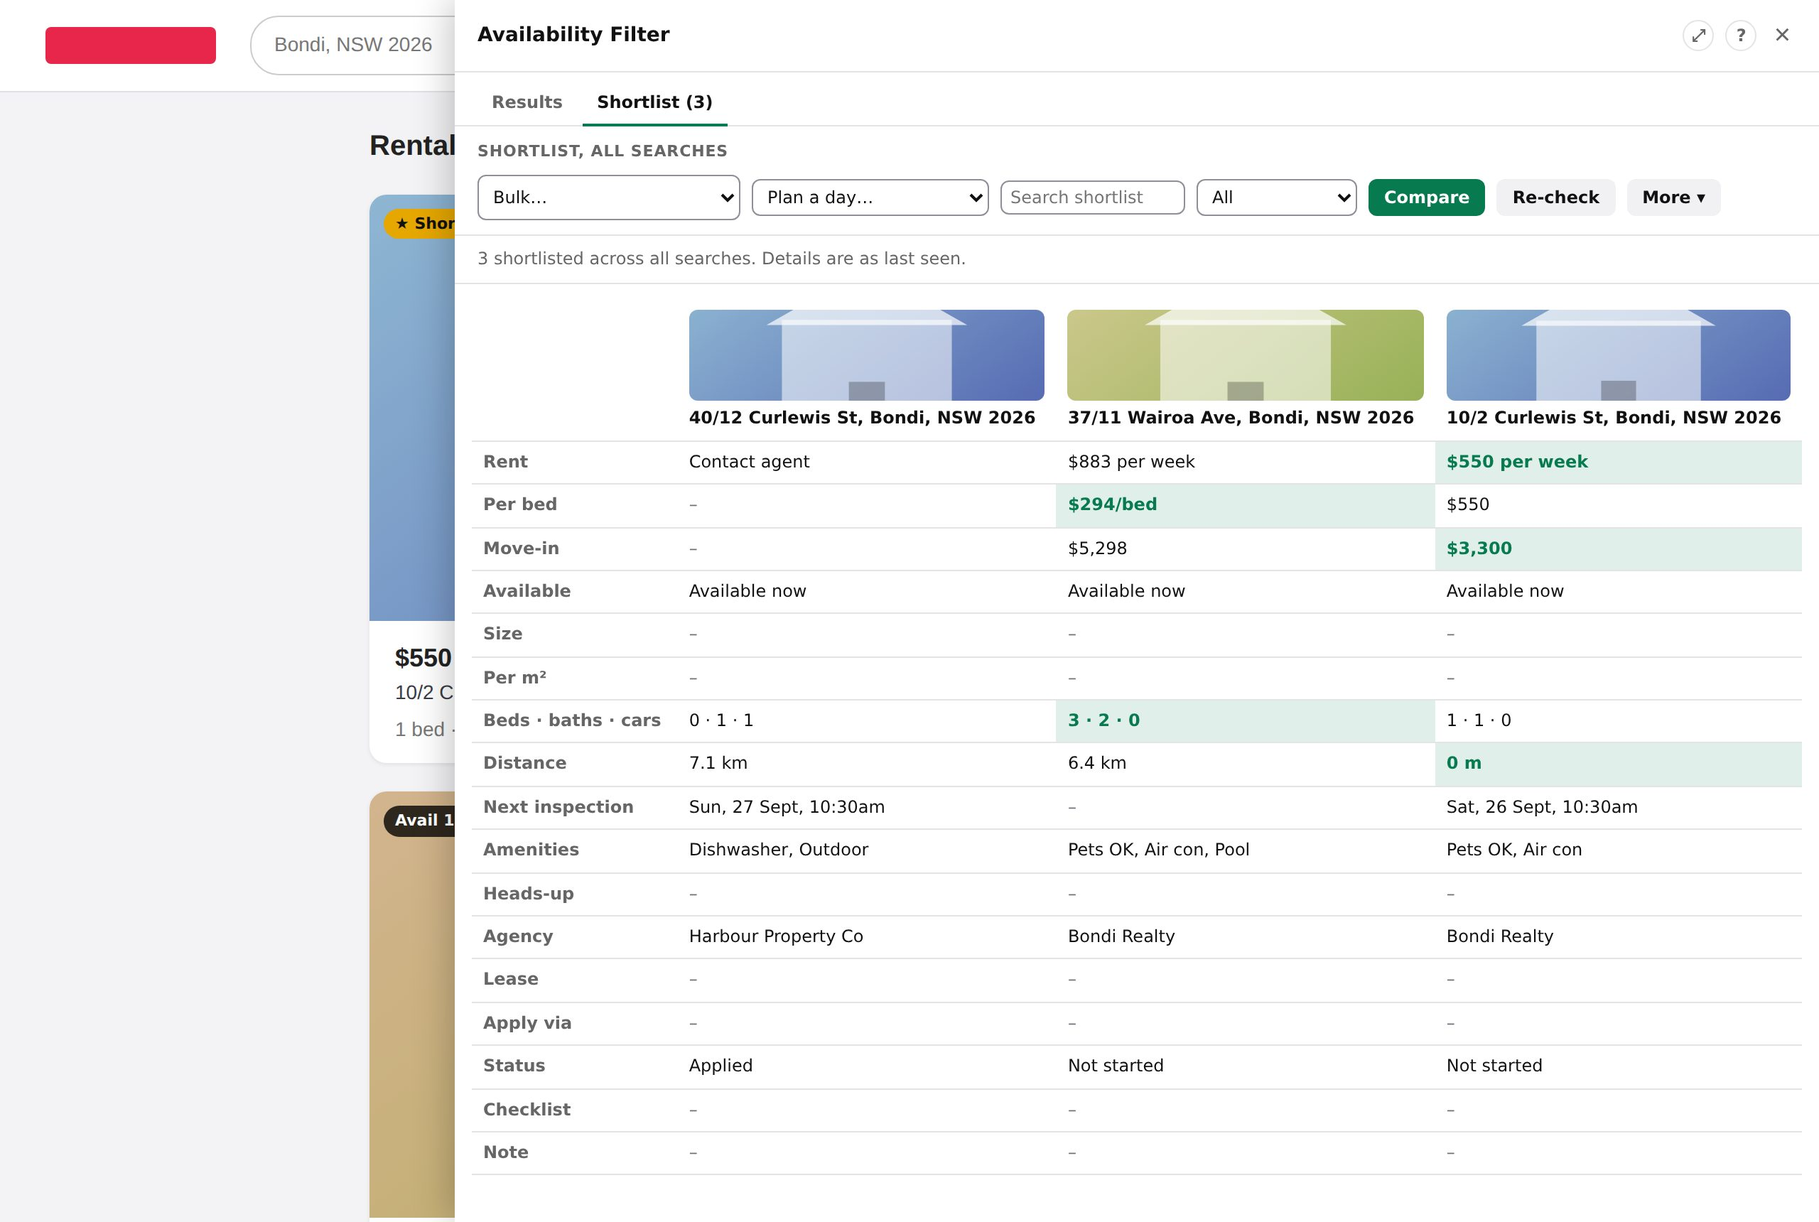
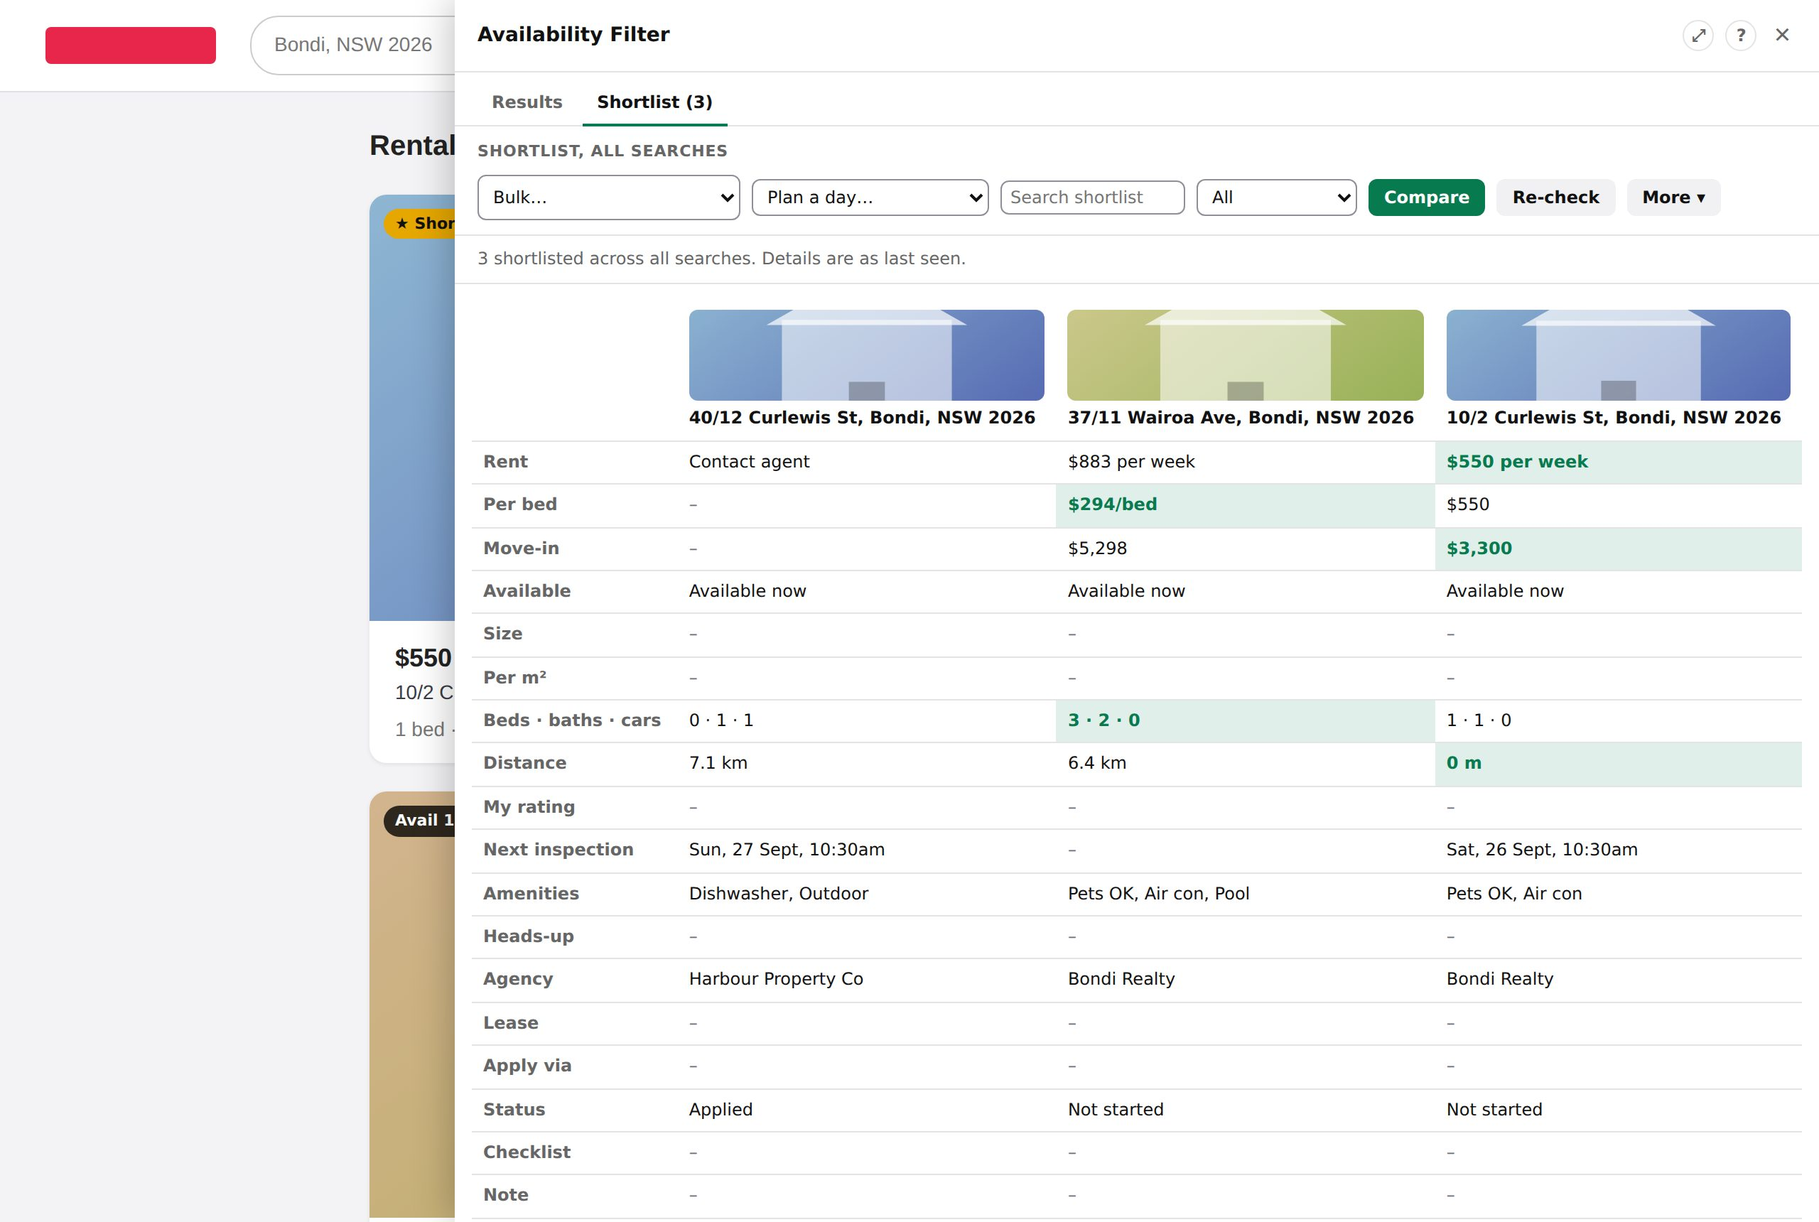
Bump 2.28.0; changelog, what's new, docs and screenshots

diff --git a/rea-availability-filter.user.js b/rea-availability-filter.user.js
@@ -1,7 +1,7 @@
 // ==UserScript==
 // @name         REA Availability Filter
 // @namespace    https://github.com/cpwillis-pocs/rea-enhancement
-// @version      2.27.0
+// @version      2.28.0
 // @description  Availability-date filtering and sorting, extra filters, cross-page merging, on-card availability badges and CSV/TSV export for realestate.com.au rental searches.
 // @author       cpwillis
 // @homepageURL  https://github.com/cpwillis-pocs/rea-enhancement
@@ -5138,10 +5138,10 @@ ${r.note ? `<div class="n">${esc(r.note)}</div>` : ''}${checklist.length ? `<div
   const DRAWER_MIN = 360, DRAWER_MAX = 900, DRAWER_TWO_COL = 760;
   // Installs auto-update silently, so the drawer says once what changed (lint keeps this in step
   // with @version and the changelog). A first install gets WELCOME instead.
-  const WHATS_NEW = { version: '2.27.0', items: [
-    'Map view (v): the listings shown on a simple map, coloured by rent vs the median.',
-    'Hover a tag to see the sentence it was read from; remembered searches show a rent trend.',
-    'Backups now include your settings, and the listing-page bar has your inspection checklist.',
+  const WHATS_NEW = { version: '2.28.0', items: [
+    'Rate shortlisted places 1–5 after an inspection (Shift+1–5), and see your next stop on a listing page.',
+    'Restore now shows what it will change first, and can be undone.',
+    'The map keeps far-away places at its edge; about 1000 listings per search are now remembered.',
   ] };
   const WELCOME = [
     'Set a date (or leave it blank) and press Search all pages to read every page of this search.',

diff --git a/docs/ROADMAP.md b/docs/ROADMAP.md
@@ -2,7 +2,7 @@
 
 Where the project stands, the decisions already taken, what is known not to work perfectly, and ideas that were considered but not built. The feature list is in the [README](../README.md), every change is in the [CHANGELOG](../CHANGELOG.md), and the internals are in [ARCHITECTURE.md](ARCHITECTURE.md).
 
-## Where it stands (v2.27.0)
+## Where it stands (v2.28.0)
 
 The project went from a single-purpose availability-date filter (1.0.0) to a full rental-search companion across 30+ releases. Each area below is built, unit- or e2e-tested, and described in the README.
 
@@ -10,12 +10,12 @@ The project went from a single-purpose availability-date filter (1.0.0) to a ful
 |---|---|
 | **Finding** | Crawl every page of a search (one page at a time, capped, resumable after a failure). Filters: dates, rent, move-in cost, beds/baths/cars, floor size, several property types, 19 amenities, heads-up clauses, lease length, taken listings, inspection day or "inspections I can make", distance to up to 3 places, building. Keywords with OR and accent folding. 12 sorts (including price per m²), each reversible. |
 | **Judging** | Map view, rent trend per remembered search, tag tooltips quoting the text each tag was read from, amenity detail (pets welcome vs on application, heating type, water efficient), rent vs the median in the listing's own suburb, best-match score with adjustable weights, move-in cost and bond flag, lease overlap or gap against your current lease, share of income, price and date change history, relists, twin listings, market view. |
-| **Deciding** | Shortlist across searches with notes, checklist, application status and follow-ups. Hide with reasons (a price-hidden listing comes back if it gets cheaper). Reviewed marks, compare table, photo peek, enquiry text. |
-| **Inspecting** | Inspection times in the listing's time zone, a day planner with clash detection and a suggested route, calendar export with reminders, after-inspection prompts, cancelled-inspection notices. |
+| **Deciding** | Shortlist across searches with notes, checklist, your 1–5 rating, application status and follow-ups. Hide with reasons (a price-hidden listing comes back if it gets cheaper). Reviewed marks, compare table, photo peek, enquiry text. |
+| **Inspecting** | The next stop and your checklist on the listing page, inspection times in the listing's time zone, a day planner with clash detection and a suggested route, calendar export with reminders, after-inspection prompts, cancelled-inspection notices. |
 | **Returning** | Remembered and pinned searches with new / gone listings and a rent trend, Check all, a daily reminder, presets bound to searches, share links, backup and restore. |
 | **Using it** | Side drawer that scrolls as one page (resizable, compact mode, reopens on the listing you were on after a reload, in Results and Shortlist) or expanded near full screen. Full keyboard control, dark mode (system, or set in Settings), phone layout, screen-reader labels (card buttons named per listing), High Contrast styles, a first-run welcome, badges and quick actions on REA's own cards, a bar on listing pages. |
 | **Keeping it working** | Several fallback field paths, discovery by shape, results found by shape if REA renames them, cards found without `<article>` (and a banner if none can be recognised), drift warnings, `reaFilter.selfcheck()` / `probe()` / `shape()` (paste-safe listing structure), storage-full warning, a size budget for remembered searches, a 10-minute pause after a bot check, a double-run guard, a one-time what's-new note after updates. |
-| **Project** | 188 unit tests (including shapes from `reaFilter.shape()`), 64 e2e scenario blocks plus a smoke flow (run three at a time in CI, `E2E_JOBS`), 98%+ UI line coverage, a lint for privacy and storage rules, SECURITY.md and PRIVACY.md, a local live check (`npm run live`), and an on-demand CI pipeline (PRs + manual; no push or schedule triggers, to save Actions minutes). |
+| **Project** | 197 unit tests (including shapes from `reaFilter.shape()`), 67 e2e scenario blocks plus a smoke flow (run three at a time in CI, `E2E_JOBS`), 98%+ UI line coverage, a lint for privacy and storage rules, SECURITY.md and PRIVACY.md, a local live check (`npm run live`), and an on-demand CI pipeline (PRs + manual; no push or schedule triggers, to save Actions minutes). |
 
 ## Decisions already taken
 
@@ -44,13 +44,13 @@ These were raised as questions and settled by the maintainer. Don't reopen them 
 - **Storage is per browser** and shared with REA's own code. Backups (Settings) are the way to move data between browsers. Reviewed marks are only backed up for listings you also shortlisted, hid, noted or gave a status (so storage doesn't grow with every listing you look at).
 - **Floor size is only as good as the listing**: most rentals don't state it, and the text reading can pick a figure that isn't the internal area. Min m² leaves out listings that don't say.
 - **A challenge page that still carries results isn't detected** by the bot-check pause.
-- **Very large remembered searches stay over the size budget**: past about 550 listings, even rows without text add up to more than 400K characters.
+- **Very large remembered searches stay over the size budget**: past about 1000 listings, even packed rows without text add up to more than 400K characters.
 - **The map is a flat projection with straight lines**: fine at suburb scale, no streets, and only listings REA gives coordinates for.
 - **Photo peek assumes REA serves an 800×600 version** of each photo. If it doesn't, the peek falls back to the thumbnail.
 
 ## Ideas not built yet
 
-All eleven ideas from the 2.26.1 audit, its bugs and its slow spots shipped in 2.27.0 (see the [CHANGELOG](../CHANGELOG.md#2270)). Not done from that audit, as higher risk than value: doing the end-of-search save in a later task (about 50 ms less before results paint, but the save order matters), and merging the three stores' try-save-report code and the `SORTS` / `SORT_UNKNOWN` accessors. Run a fresh audit for the next list. When you build one, move it into the CHANGELOG, update this page, and add its e2e block (lint checks the count in [ARCHITECTURE.md](ARCHITECTURE.md#tests-at-a-glance)).
+Everything from the 2.27.0 audit (ten ideas, its bugs and its slow spots) shipped in 2.28.0 (see the [CHANGELOG](../CHANGELOG.md#2280)), except two parts judged not worth their risk: checking a results page after the first for a data blob with no pagination (a false positive would pause every tab), and throttling status announcements (the status line is already `aria-busy` during searches, Check all and Re-check). Still open from earlier: doing the end-of-search save in a later task, and merging the stores' try-save-report code and the `SORTS` / `SORT_UNKNOWN` accessors. Run a fresh audit for the next list. When you build one, move it into the CHANGELOG, update this page, and add its e2e block (lint checks the count in [ARCHITECTURE.md](ARCHITECTURE.md#tests-at-a-glance)).
 
 ## Releasing
 

diff --git a/docs/ARCHITECTURE.md b/docs/ARCHITECTURE.md
@@ -32,7 +32,7 @@ All keys start with `TOOL_PREFIX = 'rea-avail-filter/'`. The lint rule enforces 
 |---|---|---|---|
 | `v1` | localStorage | Settings (`DEFAULT_CFG` keys, sanitised by type). `building` is never saved. | none |
 | `marks/v1` | localStorage | Per-listing marks (see below), plus hidden agencies (`ag`) and hidden suburbs (`sb`) | 5000 listings; unmarked ones are dropped 90 days after they were last seen |
-| `snapshots/v1` | localStorage | Remembered searches: slim rows, ids and baseline for "new since last visit", gone rows, `pin`, `lite`, `trend` (one point per visit: count and median rent per bed count, at most 12) | 3 searches (pinned kept first), 300 characters of text per field, about 400K characters per search (`SNAP_ENTRY_BUDGET`: past it the rows furthest down lose their text, then gone rows theirs, then rows their features and headlines, then gone rows go; the entry is marked `lite`. Rows need about 730 characters each even then, so above roughly 550 listings an entry stays over budget) |
+| `snapshots/v1` | localStorage | Remembered searches: slim rows, ids and baseline for "new since last visit", gone rows, `pin`, `lite`, `trend`; stored packed (`f: 2`, column names in `rk`, rows as arrays, REA's URL prefixes dropped), read back as objects, older unpacked entries still read (one point per visit: count and median rent per bed count, at most 12) | 3 searches (pinned kept first), 300 characters of text per field, about 400K characters per search (`SNAP_ENTRY_BUDGET`: past it the rows furthest down lose their text, then gone rows theirs, then rows their features and headlines, then gone rows go; the entry is marked `lite`. Packed rows need about 400 characters each even then, so above roughly 1000 listings an entry stays over budget) |
 | `presets/v1` | localStorage | Named filter presets, and the search each is bound to | none |
 | `health/v1` | localStorage | Moving average of how often each field is filled, for drift warnings | none |
 | `rows/<search>` | sessionStorage | This tab's results cache, versioned by `ROWS_VERSION` | 2 searches, 10 minutes |
@@ -52,7 +52,7 @@ A failed write of something you chose (marks, settings, presets) goes to `writeS
 | `s`, `st`, `d` | Shortlisted, when, summary copy for the cross-search Shortlist (`d.in` inspections, `d.w` heads-up, `d.tk` taken, `d.bp` by appointment…) |
 | `h`, `hr`, `ht`, `hp` | Hidden, reason, when hidden, weekly rent when hidden (used for "cheaper since you hid it") |
 | `n` | Note |
-| `as`, `ast`, `ck` | Application status and when set, checklist answers |
+| `as`, `ast`, `ck`, `rt` | Application status and when set, checklist answers, your 1–5 rating |
 | `o`, `rv` | Opened, reviewed |
 | `p`, `ps`, `pp`, `pps`, `pt`, `ph` | Price now, previous price, when it changed, price history |
 | `av`, `pav`, `avt`, `avd` | Availability day now and before, when it changed, direction |
@@ -100,10 +100,11 @@ These are all pure and unit-tested, and all can be wrong. Each has a negative-ca
 
 ## Tests at a glance
 
-- **Unit:** `test/*.test.js` (188 tests): pure functions and stores, with a frozen clock (`test/clock.js`) and `memStorage` (`test/helpers.js`). They pass in any time zone; CI runs the Node 20 job in Los Angeles time.
+- **Unit:** `test/*.test.js` (197 tests): pure functions and stores, with a frozen clock (`test/clock.js`) and `memStorage` (`test/helpers.js`). They pass in any time zone; CI runs the Node 20 job in Los Angeles time.
 - **E2E:** `test/e2e/smoke.js` covers the main flow, including 150-listing chunked rendering. `test/e2e/edge.js` has one numbered block per feature or edge path (67 blocks, numbered 1–53 with lettered sub-blocks such as 24l). Run just some with `E2E_ONLY=24l,35`, or several at once with `E2E_JOBS=4` (`npm run e2e:fast`; CI uses 3).
 - **Coverage:** `npm run coverage` merges the UI-half line coverage from both e2e files; `COVERAGE_MIN=98` (set by the on-demand CI coverage job, not on PRs) fails the run below 98%.
 - **Shapes:** `test/shapes.test.js` rebuilds a listing from each `test/shapes/*.json` (`reaFilter.shape()` output) and checks it still parses.
 - **Live:** `npm run live` (`test/live.js`) runs one real search locally and saves a fresh shape. Never in CI; lint enforces that.
 - **Versions:** `test/versions.test.js` compares `toRow()`'s fields and the amenity / heads-up patterns with `test/versions.json`, and fails if they changed without a `ROWS_VERSION` / `FEAT_V` bump (or if an id was inserted anywhere but the end).
+- **Accessibility:** `test/e2e/a11y.js` runs axe-core (a pinned test-only install) over every drawer view and the listing bar, in light and dark, and fails on serious or critical findings.
 - **Lint:** `test/lint.js` enforces the project rules (including SECURITY.md and PRIVACY.md existing, the Playwright version matching CI, and the ROADMAP version and e2e block count being current), and `test/lint.test.js` checks the lint and `npm run release`.

diff --git a/README.md b/README.md
@@ -66,18 +66,19 @@ Updates are automatic: Tampermonkey checks `@updateURL` (the file on `main`) and
 - Star a listing to shortlist it, or hide one you've ruled out. Both persist in your browser.
 - The **Shortlist** tab collects starred listings from every search you've run, with a private note and an **application status** (to inspect, inspected, applied, approved, declined) per listing; search it, filter by status and export it.
 - **Compare** up to 6 shortlisted listings side by side, best value per row highlighted.
+- **Your rating** (1–5, or Shift+1–5) per shortlisted listing, shown in Compare and exports.
 - **Inspection checklist** per shortlisted listing (damp, water pressure, signal, light, noise, storage, or your own), shown in Compare and on the printout.
 - **Plan an inspection day**: shortlisted inspections in order with clashes and tight travel gaps flagged, plus a **suggested route** that fits in as many listings as can be reached in time (one session each, "to inspect" ones first), exportable to your calendar as the whole day or just the route.
 - **Re-check** shortlisted listings to refresh price, availability and inspections from their pages, and spot ones taken down.
 - **Share** the shortlist as a link or **Print** it for open homes. The shared data sits in the link's `#` fragment, which browsers don't send to REA's servers; REA's own page scripts could read it before the script clears it, and wherever you paste the link keeps a copy.
-- **Backup / Restore** the shortlist, hidden listings, notes, remembered searches and your settings as a JSON file, eg to move to another browser. Settings shows when you last backed up.
+- **Backup / Restore** the shortlist, hidden listings, notes, remembered searches and your settings as a JSON file, eg to move to another browser. Settings shows when you last backed up; a restore says what it will change first and can be undone.
 - **Remembers each search between visits** (on by default; a setting turns it off and forgets what's stored). Coming back shows the saved results straight away, and **Refresh** fetches current listings and diffs them: listings added since your last visit are tagged **new** (filter: "New since last visit only"), and ones taken down are counted and can be shown greyed out. Sort **Newest first** to see additions in order of listing.
 - **Saved searches**: see your remembered searches (with a rent trend across visits) and **Check all for new listings** in one click (each fetched one page at a time), with an optional once-a-day reminder. **Pin** a search to keep it when you open others (3 are remembered); you're told when one is forgotten.
 - **Opened tracking**: "opened 2d ago" on listings you've looked at, and a **Not opened yet** filter.
 - **Hide with a reason** (too small, location, condition, price) so you remember why later.
 - **Application follow-up**: "did you inspect?" after an inspection passes, time since you applied, a "follow up?" nudge, a **Needs action** filter, and your record with each agency.
 - **Copy enquiry**: a ready-made message for the agent from a template you can edit.
-- **On a listing page**, a small bar lets you shortlist, set status, note or hide that listing directly; for a shortlisted one it also has your inspection checklist and the key facts.
+- **On a listing page**, a small bar lets you shortlist, set status, note or hide that listing directly; for a shortlisted one it also has your inspection checklist, your rating, the key facts and the **next stop** (the next shortlisted inspection today, how far, when to leave).
 - Price changes show "was $X" (hover for the full history). Availability date changes show the same way, and **Price or date changed recently** filters to them. A listing relisted at the same address under a new id is tagged **relisted** with its old price, and stays hidden if you'd hidden it.
 
 ![Shortlist and price-change tags](docs/screenshots/shortlist.jpg)

diff --git a/CHANGELOG.md b/CHANGELOG.md
@@ -2,6 +2,24 @@
 
 Versions match the userscript's `@version`; installs auto-update from `main` when it increases.
 
+## 2.28.0
+
+- **Your rating** (1–5) for shortlisted listings, after an inspection: on the Shortlist tab (Shift+1–5), on the listing-page bar, in Compare, and in CSV and print.
+- **Next stop** on the listing-page bar: the next shortlisted inspection today, how far it is and when to leave, linked to that listing.
+- **Restore shows what it will do** ("Restore 12 listings (3 shortlisted, 2 hidden), 2 saved searches, and replace your places, theme?") and waits for Restore; afterwards it can be undone.
+- **Map**: a place in another city is an arrow at the edge with its distance, instead of squashing the listings into a corner; the map is one tab stop and the arrow keys move between listings.
+- **Calendar**: each inspection carries its coordinates (GEO), and a session REA cancelled is exported as cancelled under the same ID, so importing again takes it out (where the calendar app honours it).
+- **Bigger searches remembered**: remembered searches are stored packed, about half the size, so around 1000 listings fit before any text is trimmed.
+- Fixed:
+  - Restoring a backup made with Remember results off no longer deletes this browser's remembered searches (backups no longer carry that setting).
+  - An old backup's "no longer listed" mark doesn't stick to a listing you've seen since.
+  - Re-check no longer mistakes a removed listing that redirects to REA's home page for a bot check (which paused every tab); the listing-page bar pauses on a real challenge page.
+  - The monthly backup reminder only counts once you've seen it, on a search page.
+  - "Why this tag?" quotes always contain what matched (one-feature-per-line descriptions); `-"no pets"` is one exclusion in the "matched" line.
+  - Resume during a bot-check pause keeps the Resume notice.
+- Faster: tag tooltips are worked out once per listing, a map dot jumps to its listing in one pass, this tab's cache is written after the results paint, remembered searches reuse each entry's stored form, restoring at page load has its own task, and a theme change in another tab only re-themes.
+- Project: an accessibility check (axe-core, a pinned test-only install) runs over every drawer view and the listing bar in light and dark; CI skips e2e for unit-test-only PRs and runs one Node version for e2e-only ones; `npm run live` compares against the last saved shape and fails if a path the script reads is gone; reduced-motion styles.
+
 ## 2.27.0
 
 - **Map view** (Map, or v): the listings shown on a simple map with no map tiles, coloured by rent vs the median, shortlisted ones larger, your places and distance point as pins, a scale bar and suburb names. Click (or Enter on) a dot to go to that listing.
